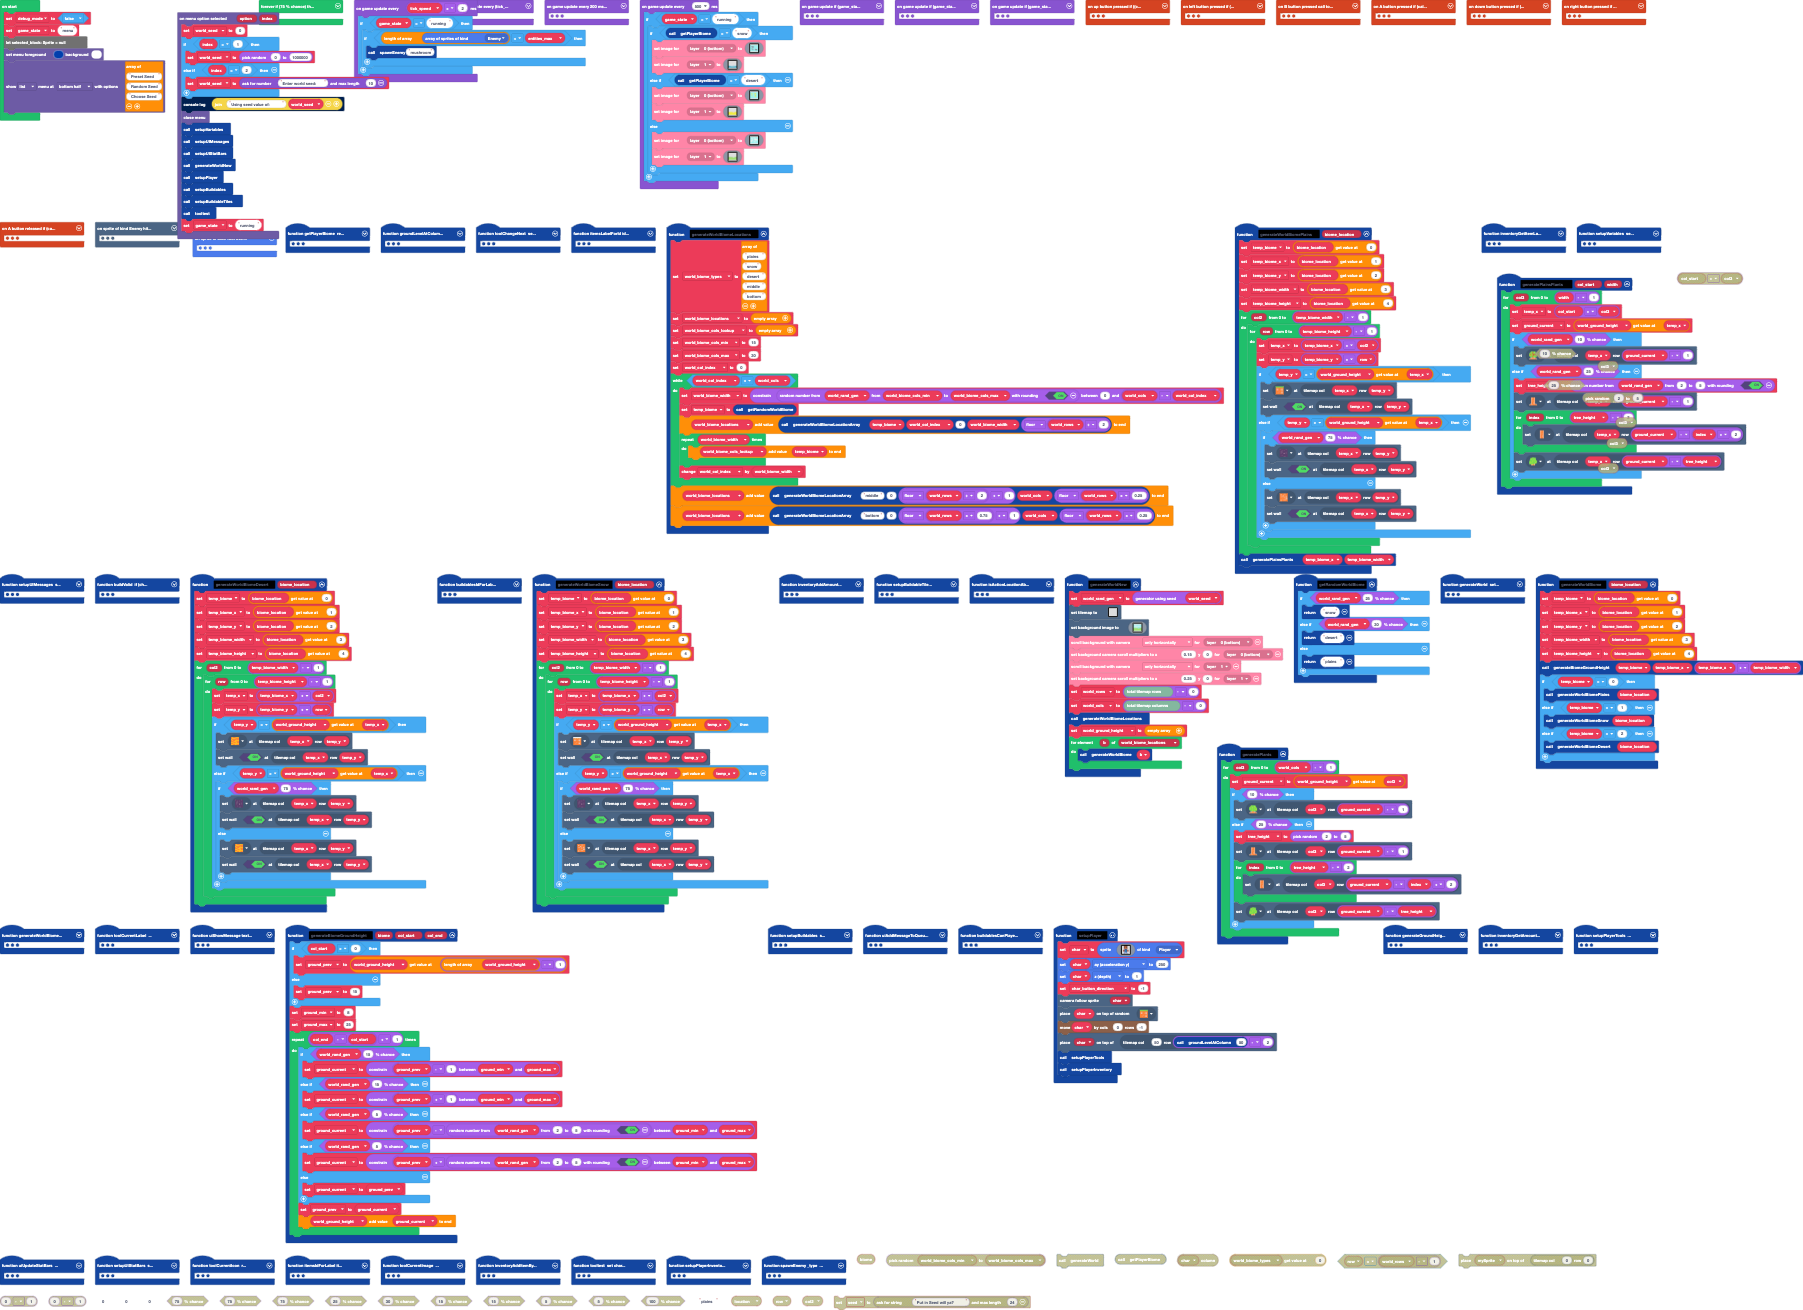
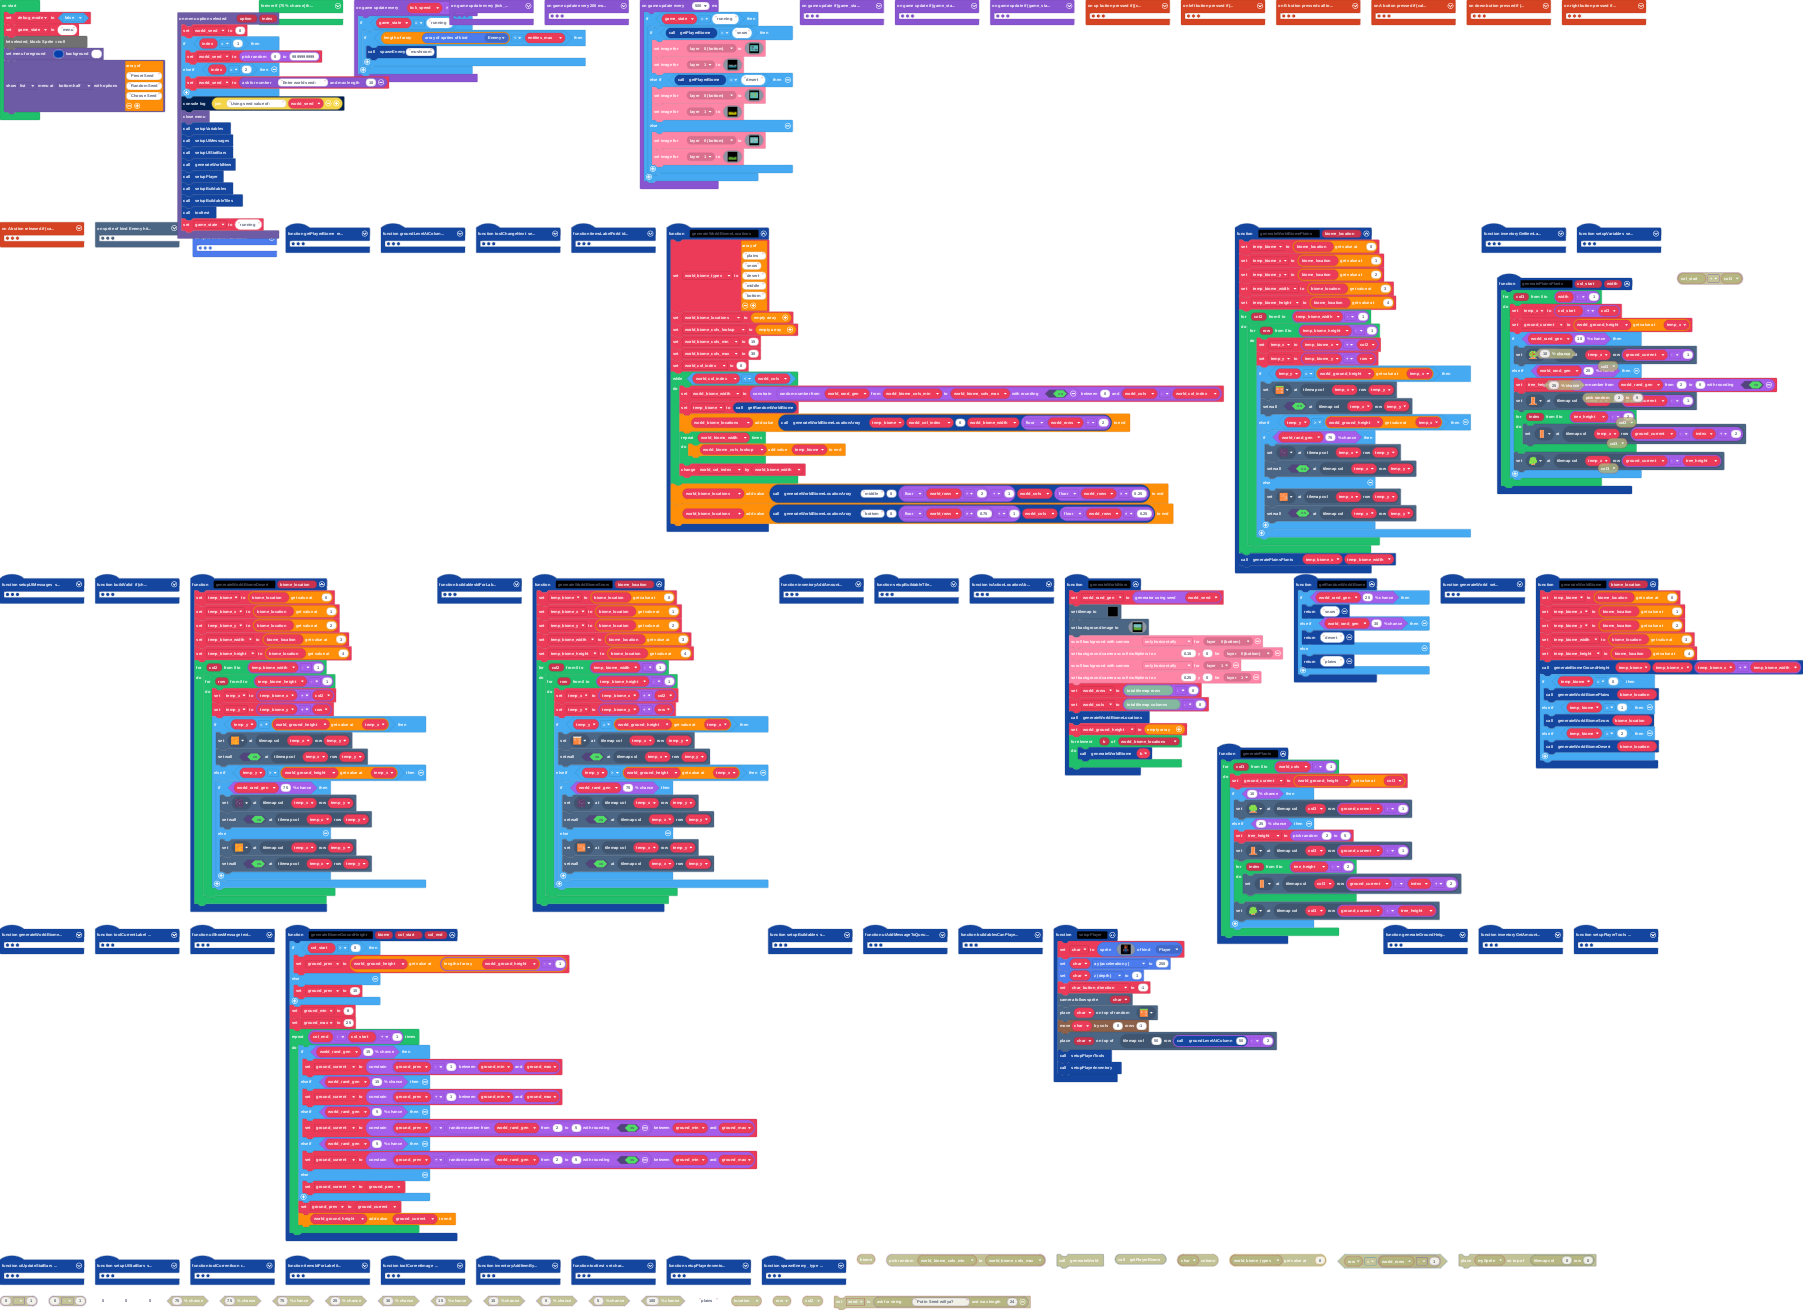
Fixed Limit on Random Seed!

diff --git a/main.ts b/main.ts
@@ -596,7 +596,7 @@ function tooltest () {
 blockMenu.onMenuOptionSelected(function (option, index) {
     world_seed = 0
     if (index == 1) {
-        world_seed = randint(0, 1000000)
+        world_seed = randint(0, 9999999999)
     } else if (index == 2) {
         world_seed = game.askForNumber("Enter world seed:", 10)
     }
